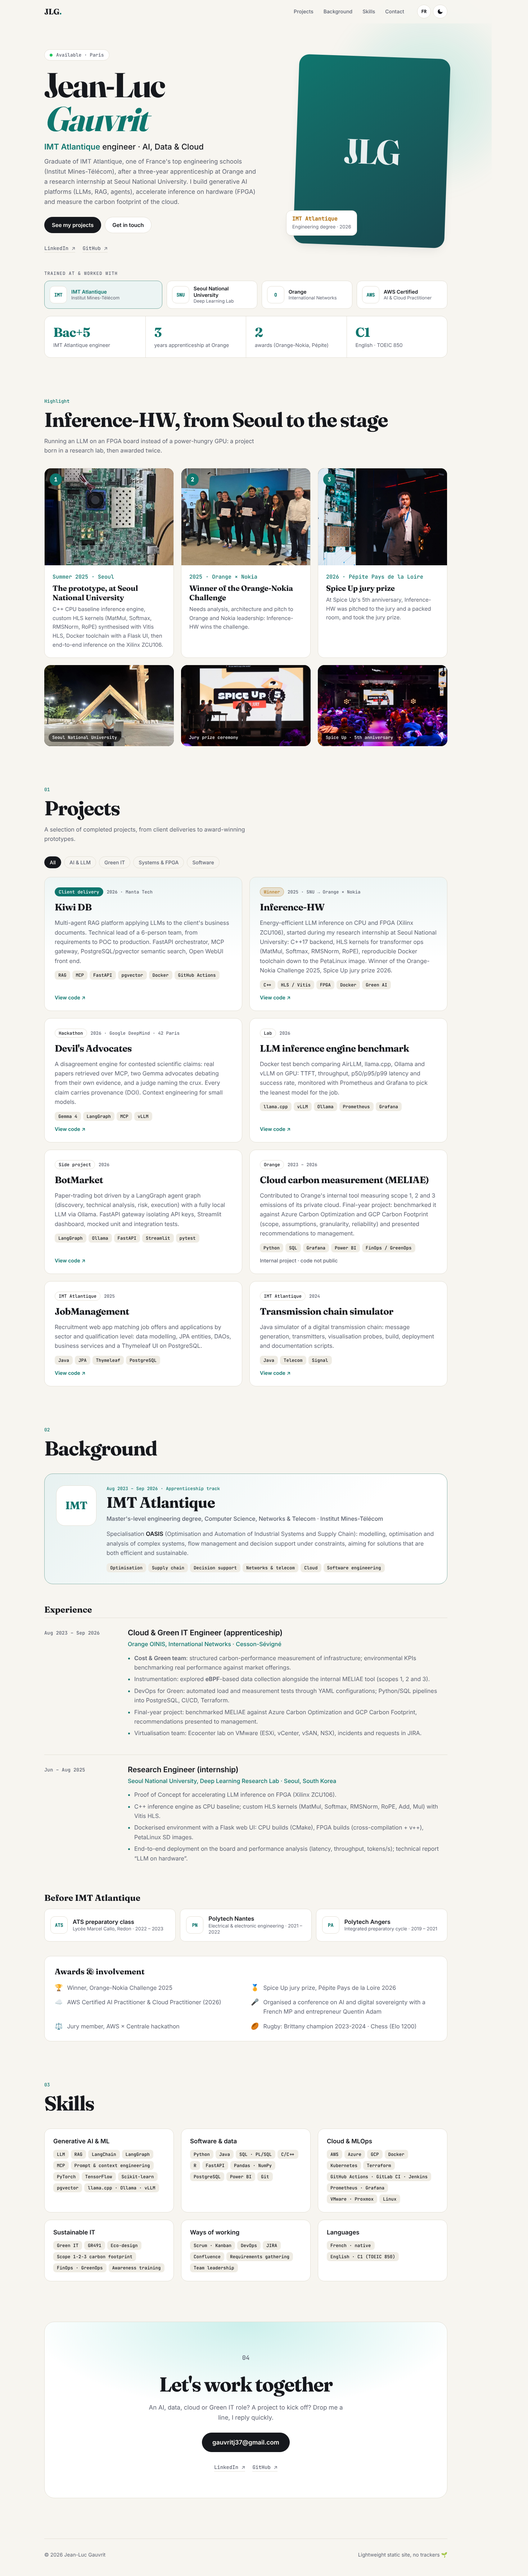
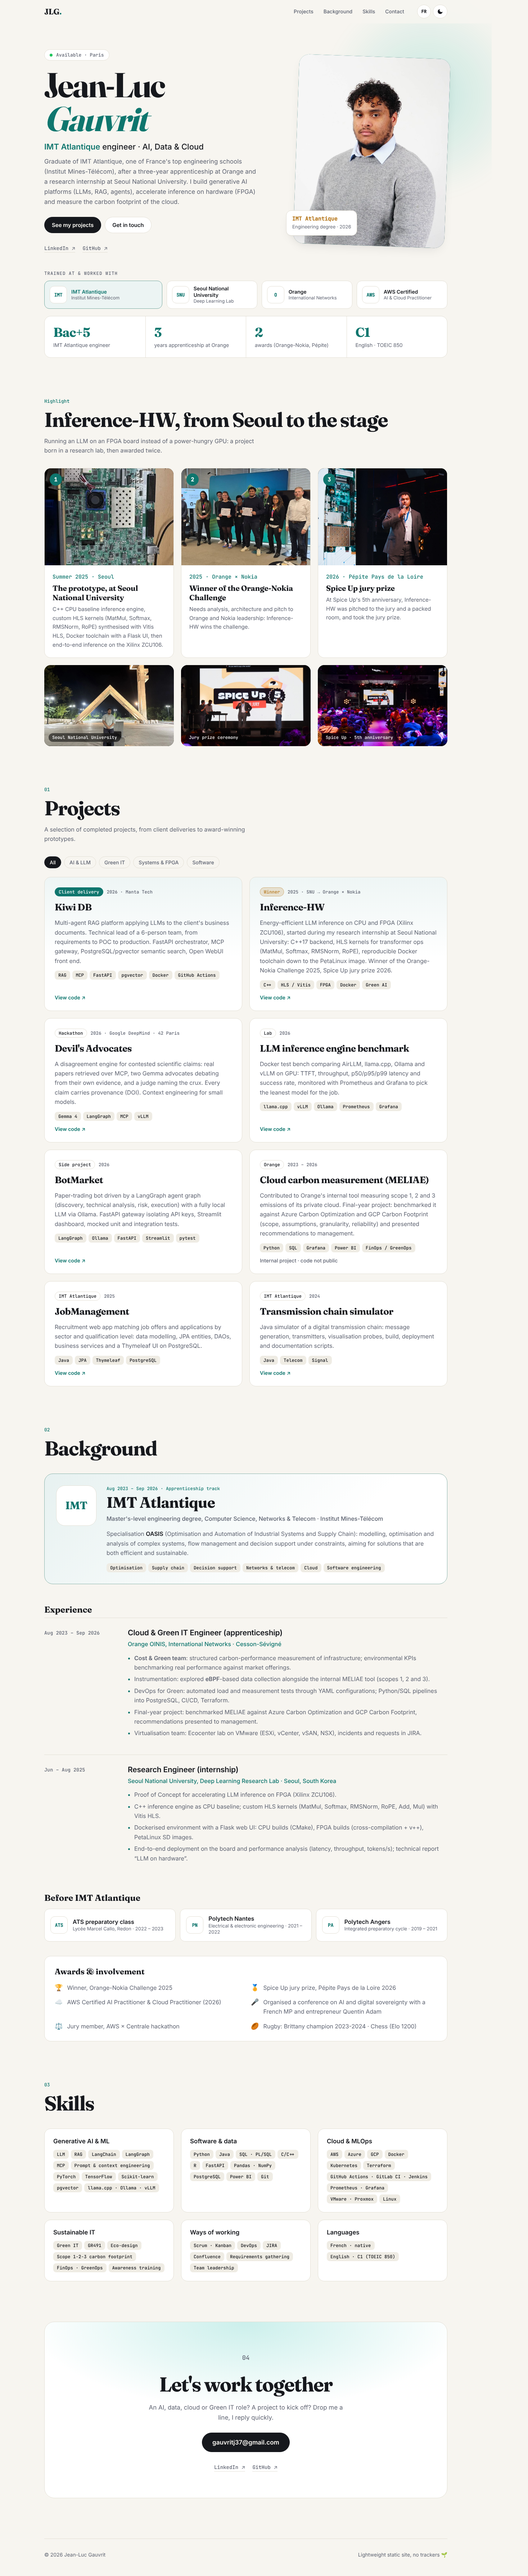
Add profile photo
Claude-Session: https://claude.ai/code/session_019oAXmAm96PmHpokHCfGmVS

Changed region(s): [[0.5521, 0.0, 0.8589, 0.0936]]

diff --git a/assets/css/style.css b/assets/css/style.css
@@ -132,7 +132,7 @@ h1 em { font-style: italic; color: var(--accent); }
   box-shadow: var(--shadow); transform: rotate(2deg); transition: transform .5s;
 }
 .photo-frame:hover { transform: rotate(0); }
-.photo-frame img { width: 100%; height: 100%; object-fit: cover; position: relative; z-index: 1; }
+.photo-frame img { width: 100%; height: 100%; object-fit: cover; object-position: 50% 20%; position: relative; z-index: 1; }
 .photo-fallback {
   position: absolute; inset: 0; display: grid; place-items: center;
   font: 700 96px var(--serif); color: rgba(255,255,255,.9); letter-spacing: -.04em;
